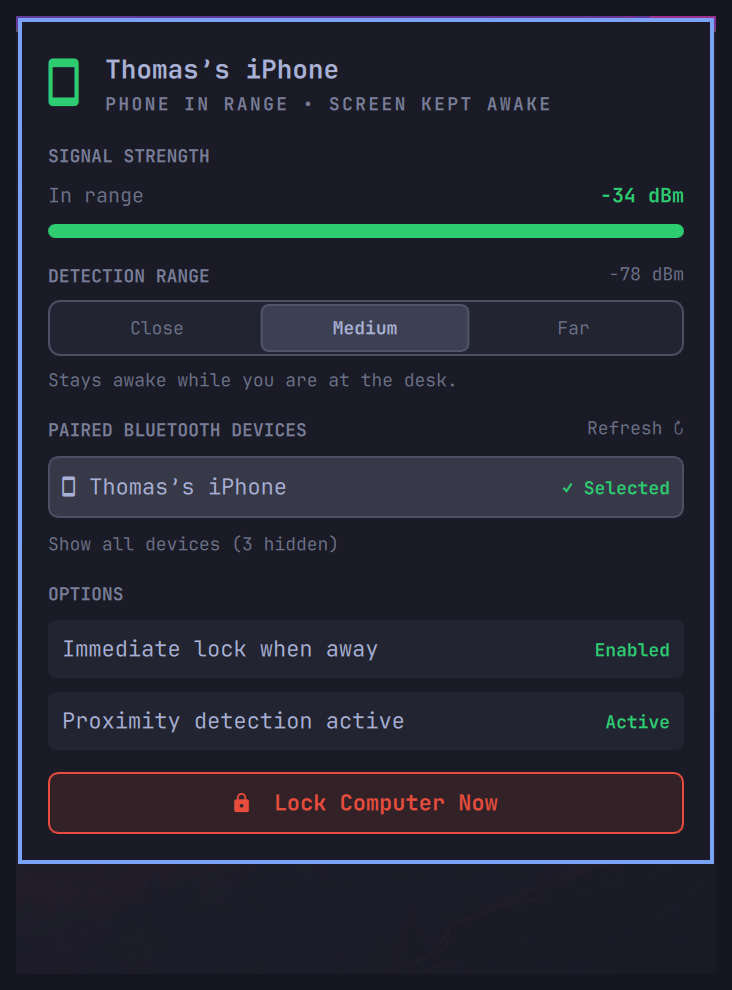
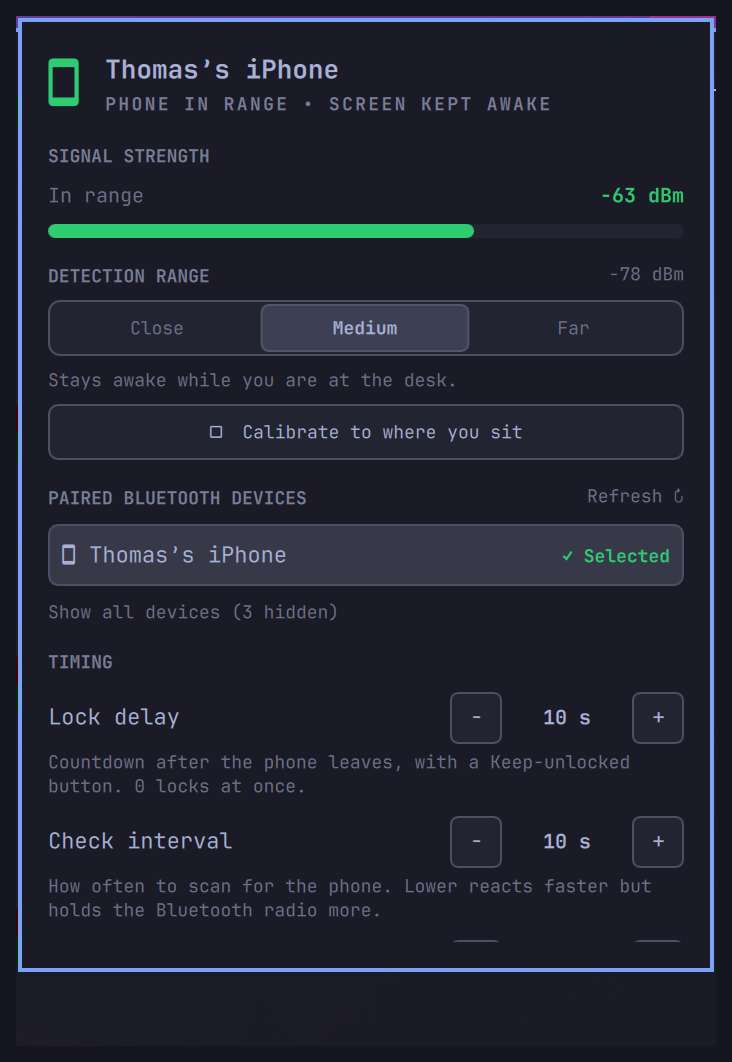
feat(proximity): in-panel settings — TIMING steppers + OPTIONS toggles
Omarchy renders nothing from the manifest schema, so half the settings
were shell.json-only. Add them to the panel:

- TIMING section: lockDelaySeconds / pollIntervalSeconds / awayGraceCount
  as -/+ steppers. Steppers, not PanelSlider — PanelSlider commits a new
  value on every mouse-wheel tick, so scrolling the panel past one
  silently changed (and saved) the setting.
- OPTIONS: reusable ToggleRow; adds a Notifications toggle; shows a note
  when command hooks are set.
- Reusable ToggleRow / StepButton / StepperRow components.

README: config table reworded ("set from the panel"), preview refreshed.

Claude-Session: https://claude.ai/code/session_01UMcPhYGcqN4AYkjjQr9yiY

diff --git a/Panel.qml b/Panel.qml
@@ -431,6 +431,156 @@ Panel {
     onExited: function() { root.calibrating = false }
   }
 
+  // --- Reusable settings rows -------------------------------------------------
+
+  component ToggleRow: Rectangle {
+    id: toggleRow
+    property string label: ""
+    property bool on: false
+    property string onText: "Enabled"
+    property string offText: "Disabled"
+    signal toggled()
+
+    width: parent ? parent.width : 0
+    height: Style.space(32)
+    radius: Style.space(4)
+    color: trMouse.containsMouse ? root.hoverFill : root.trackFill
+
+    MouseArea {
+      id: trMouse
+      anchors.fill: parent
+      hoverEnabled: true
+      cursorShape: Qt.PointingHandCursor
+      onClicked: toggleRow.toggled()
+    }
+    Text {
+      textFormat: Text.PlainText
+      anchors { left: parent.left; leftMargin: Style.space(8); verticalCenter: parent.verticalCenter }
+      text: toggleRow.label
+      font.family: root.fontFamily
+      font.pixelSize: Style.font.body
+      color: root.foreground
+    }
+    Text {
+      textFormat: Text.PlainText
+      anchors { right: parent.right; rightMargin: Style.space(8); verticalCenter: parent.verticalCenter }
+      text: toggleRow.on ? toggleRow.onText : toggleRow.offText
+      font.family: root.fontFamily
+      font.pixelSize: Style.font.caption
+      font.bold: true
+      color: toggleRow.on ? root.positive : root.dim
+    }
+  }
+
+  // A − / + stepper. Steppers, not a slider: PanelSlider commits on every
+  // mouse-wheel tick, so a slider inside this scrollable panel changes its
+  // value whenever the cursor scrolls past it.
+  component StepButton: Rectangle {
+    property string glyph: ""
+    property bool active: true
+    signal tapped()
+    width: Style.space(28)
+    height: Style.space(28)
+    radius: Style.space(4)
+    color: !active ? "transparent"
+         : sbMouse.containsMouse ? root.hoverFill : root.trackFill
+    border.width: 1
+    border.color: active ? root.hairline : "transparent"
+    opacity: active ? 1.0 : 0.35
+    MouseArea {
+      id: sbMouse
+      anchors.fill: parent
+      enabled: parent.active
+      hoverEnabled: true
+      cursorShape: Qt.PointingHandCursor
+      onClicked: parent.tapped()
+    }
+    Text {
+      anchors.centerIn: parent
+      textFormat: Text.PlainText
+      text: parent.glyph
+      font.family: root.fontFamily
+      font.pixelSize: Style.font.body
+      color: root.foreground
+    }
+  }
+
+  component StepperRow: Column {
+    id: stepper
+    property string label: ""
+    property string unit: ""
+    property int from: 0
+    property int to: 10
+    property int stepSize: 1
+    property int value: 0
+    property string hint: ""
+    signal committed(int v)
+
+    function bump(delta) {
+      var n = Math.max(stepper.from, Math.min(stepper.to, stepper.value + delta))
+      if (n !== stepper.value) stepper.committed(n)
+    }
+
+    width: parent ? parent.width : 0
+    spacing: Style.space(3)
+
+    Item {
+      width: parent.width
+      height: Style.space(28)
+
+      Text {
+        anchors { left: parent.left; verticalCenter: parent.verticalCenter }
+        anchors.right: ctl.left
+        anchors.rightMargin: Style.space(8)
+        textFormat: Text.PlainText
+        text: stepper.label
+        elide: Text.ElideRight
+        font.family: root.fontFamily
+        font.pixelSize: Style.font.body
+        color: root.foreground
+      }
+
+      Row {
+        id: ctl
+        anchors { right: parent.right; verticalCenter: parent.verticalCenter }
+        spacing: Style.space(6)
+
+        StepButton {
+          glyph: "−"
+          active: stepper.value > stepper.from
+          onTapped: stepper.bump(-stepper.stepSize)
+        }
+        Text {
+          width: Style.space(58)
+          height: Style.space(28)
+          verticalAlignment: Text.AlignVCenter
+          horizontalAlignment: Text.AlignHCenter
+          textFormat: Text.PlainText
+          text: stepper.value + stepper.unit
+          font.family: root.fontFamily
+          font.pixelSize: Style.font.bodySmall
+          font.bold: true
+          color: root.foreground
+        }
+        StepButton {
+          glyph: "+"
+          active: stepper.value < stepper.to
+          onTapped: stepper.bump(stepper.stepSize)
+        }
+      }
+    }
+    Text {
+      textFormat: Text.PlainText
+      visible: stepper.hint !== ""
+      width: parent.width
+      wrapMode: Text.WordWrap
+      text: stepper.hint
+      font.family: root.fontFamily
+      font.pixelSize: Style.font.caption
+      color: root.dim
+    }
+  }
+
   // --- Dropdown Panel Surface ---
   KeyboardPanel {
     id: panel
@@ -805,7 +955,47 @@ Panel {
             }
           }
 
-          // 4. Quick Toggles
+          // 4a. Timing
+          Column {
+            width: parent.width
+            spacing: Style.space(10)
+            visible: root.targetMac !== "" && !root.deviceMissing
+
+            PanelSectionHeader {
+              text: "TIMING"
+              foreground: root.foreground
+              fontFamily: root.fontFamily
+            }
+
+            StepperRow {
+              label: "Lock delay"
+              unit: " s"
+              from: 0; to: 60; stepSize: 5
+              value: root.lockDelaySeconds
+              hint: "Countdown after the phone leaves, with a Keep-unlocked button. 0 locks at once."
+              onCommitted: function(v) { root.updateSetting("lockDelaySeconds", v) }
+            }
+
+            StepperRow {
+              label: "Check interval"
+              unit: " s"
+              from: 8; to: 30; stepSize: 2
+              value: root.pollIntervalSeconds
+              hint: "How often to scan for the phone. Lower reacts faster but holds the Bluetooth radio more."
+              onCommitted: function(v) { root.updateSetting("pollIntervalSeconds", v) }
+            }
+
+            StepperRow {
+              label: "Dropout tolerance"
+              unit: " checks"
+              from: 1; to: 6; stepSize: 1
+              value: root.awayGraceCount
+              hint: "Consecutive missed checks before the lock countdown starts — absorbs brief signal dips."
+              onCommitted: function(v) { root.updateSetting("awayGraceCount", v) }
+            }
+          }
+
+          // 4b. Options
           Column {
             width: parent.width
             spacing: Style.space(8)
@@ -816,80 +1006,39 @@ Panel {
               fontFamily: root.fontFamily
             }
 
-            Rectangle {
-              width: parent.width
-              height: Style.space(32)
-              radius: Style.space(4)
-              color: immLockMouse.containsMouse ? root.hoverFill : root.trackFill
-
-              MouseArea {
-                id: immLockMouse
-                anchors.fill: parent
-                hoverEnabled: true
-                cursorShape: Qt.PointingHandCursor
-                onClicked: root.updateSetting("immediateLock", !root.immediateLock)
-              }
-
-              Text {
-                textFormat: Text.PlainText
-                anchors.left: parent.left
-                anchors.leftMargin: Style.space(8)
-                anchors.verticalCenter: parent.verticalCenter
-                text: "Immediate lock when away"
-                font.family: root.fontFamily
-                font.pixelSize: Style.font.body
-                color: root.foreground
-              }
-
-              Text {
-                textFormat: Text.PlainText
-                anchors.right: parent.right
-                anchors.rightMargin: Style.space(8)
-                anchors.verticalCenter: parent.verticalCenter
-                text: root.immediateLock ? "Enabled" : "Disabled"
-                font.family: root.fontFamily
-                font.pixelSize: Style.font.caption
-                font.bold: true
-                color: root.immediateLock ? root.positive : root.dim
-              }
+            ToggleRow {
+              label: "Immediate lock when away"
+              on: root.immediateLock
+              onText: "On"; offText: "Idle timer"
+              onToggled: root.updateSetting("immediateLock", !root.immediateLock)
             }
 
-            Rectangle {
+            ToggleRow {
+              label: "Notifications & countdown"
+              on: root.notifyOnStateChange
+              onText: "On"; offText: "Off"
+              onToggled: root.updateSetting("notifyOnStateChange", !root.notifyOnStateChange)
+            }
+
+            ToggleRow {
+              label: "Proximity detection active"
+              on: root.pluginEnabled
+              onText: "Active"; offText: "Paused"
+              onToggled: root.updateSetting("enabled", !root.pluginEnabled)
+            }
+
+            Text {
+              textFormat: Text.PlainText
               width: parent.width
-              height: Style.space(32)
-              radius: Style.space(4)
-              color: enabledMouse.containsMouse ? root.hoverFill : root.trackFill
-
-              MouseArea {
-                id: enabledMouse
-                anchors.fill: parent
-                hoverEnabled: true
-                cursorShape: Qt.PointingHandCursor
-                onClicked: root.updateSetting("enabled", !root.pluginEnabled)
-              }
-
-              Text {
-                textFormat: Text.PlainText
-                anchors.left: parent.left
-                anchors.leftMargin: Style.space(8)
-                anchors.verticalCenter: parent.verticalCenter
-                text: "Proximity detection active"
-                font.family: root.fontFamily
-                font.pixelSize: Style.font.body
-                color: root.foreground
-              }
-
-              Text {
-                textFormat: Text.PlainText
-                anchors.right: parent.right
-                anchors.rightMargin: Style.space(8)
-                anchors.verticalCenter: parent.verticalCenter
-                text: root.pluginEnabled ? "Active" : "Paused"
-                font.family: root.fontFamily
-                font.pixelSize: Style.font.caption
-                font.bold: true
-                color: root.pluginEnabled ? root.positive : root.negative
-              }
+              wrapMode: Text.WordWrap
+              visible: root.onAwayCommand !== "" || root.onReturnCommand !== ""
+              text: "Command hooks set: "
+                    + (root.onAwayCommand !== "" ? "on-away" : "")
+                    + (root.onAwayCommand !== "" && root.onReturnCommand !== "" ? " + " : "")
+                    + (root.onReturnCommand !== "" ? "on-return" : "")
+              color: root.dim
+              font.family: root.fontFamily
+              font.pixelSize: Style.font.caption
             }
           }
 

diff --git a/README.md b/README.md
@@ -37,10 +37,10 @@ phone required**, it just uses the existing pairing.
 - **Top-bar widget** — one glanceable phone glyph (green nearby, red away,
   dimmed when paused or the device is unpaired). Middle-click forces a check,
   right-click locks now.
-- **Settings panel** — 1-click device picker (phones / watches; desk
-  accessories hidden behind "show all"), live signal meter, Close / Medium /
-  Far range presets *or* **Calibrate** (samples the signal where you sit and
-  sets the threshold from it), immediate-lock toggle, pause switch.
+- **Everything in the panel** — device picker (phones / watches; desk
+  accessories behind "show all"), live signal meter, Close / Medium / Far
+  presets *or* **Calibrate**, sliders for lock delay / check interval /
+  dropout tolerance, and toggles for immediate-lock, notifications and pause.
 
 ## How it behaves
 
@@ -88,12 +88,13 @@ paired-devices list.
 
 ## Configuration
 
-Set from the panel, or in the widget's `shell.json` entry:
+Everything below is set from the panel except the two command hooks, which are
+`shell.json`-only for now (the widget's entry under `bar.layout.<section>`).
 
 | Key | Default | Meaning |
 | --- | --- | --- |
-| `rssiThreshold` | `-78` | Signal (dBm) at/above which the phone counts as in range. Higher = must be closer. |
-| `pollIntervalSeconds` | `10` | Seconds between checks. Minimum 8; lower keeps the radio busier. |
+| `rssiThreshold` | `-78` | Signal (dBm) at/above which the phone counts as in range. Higher = must be closer. Set by the presets or Calibrate. |
+| `pollIntervalSeconds` | `10` | Seconds between checks. Minimum 8; lower reacts faster but holds the radio more. |
 | `awayGraceCount` | `3` | Consecutive missed checks before starting the lock countdown (absorbs pocket dropouts). |
 | `immediateLock` | `true` | Lock on departure vs. just re-arming the idle timer. |
 | `lockDelaySeconds` | `10` | Live countdown before locking, with a "Keep unlocked" button. `0` = lock at once. |
